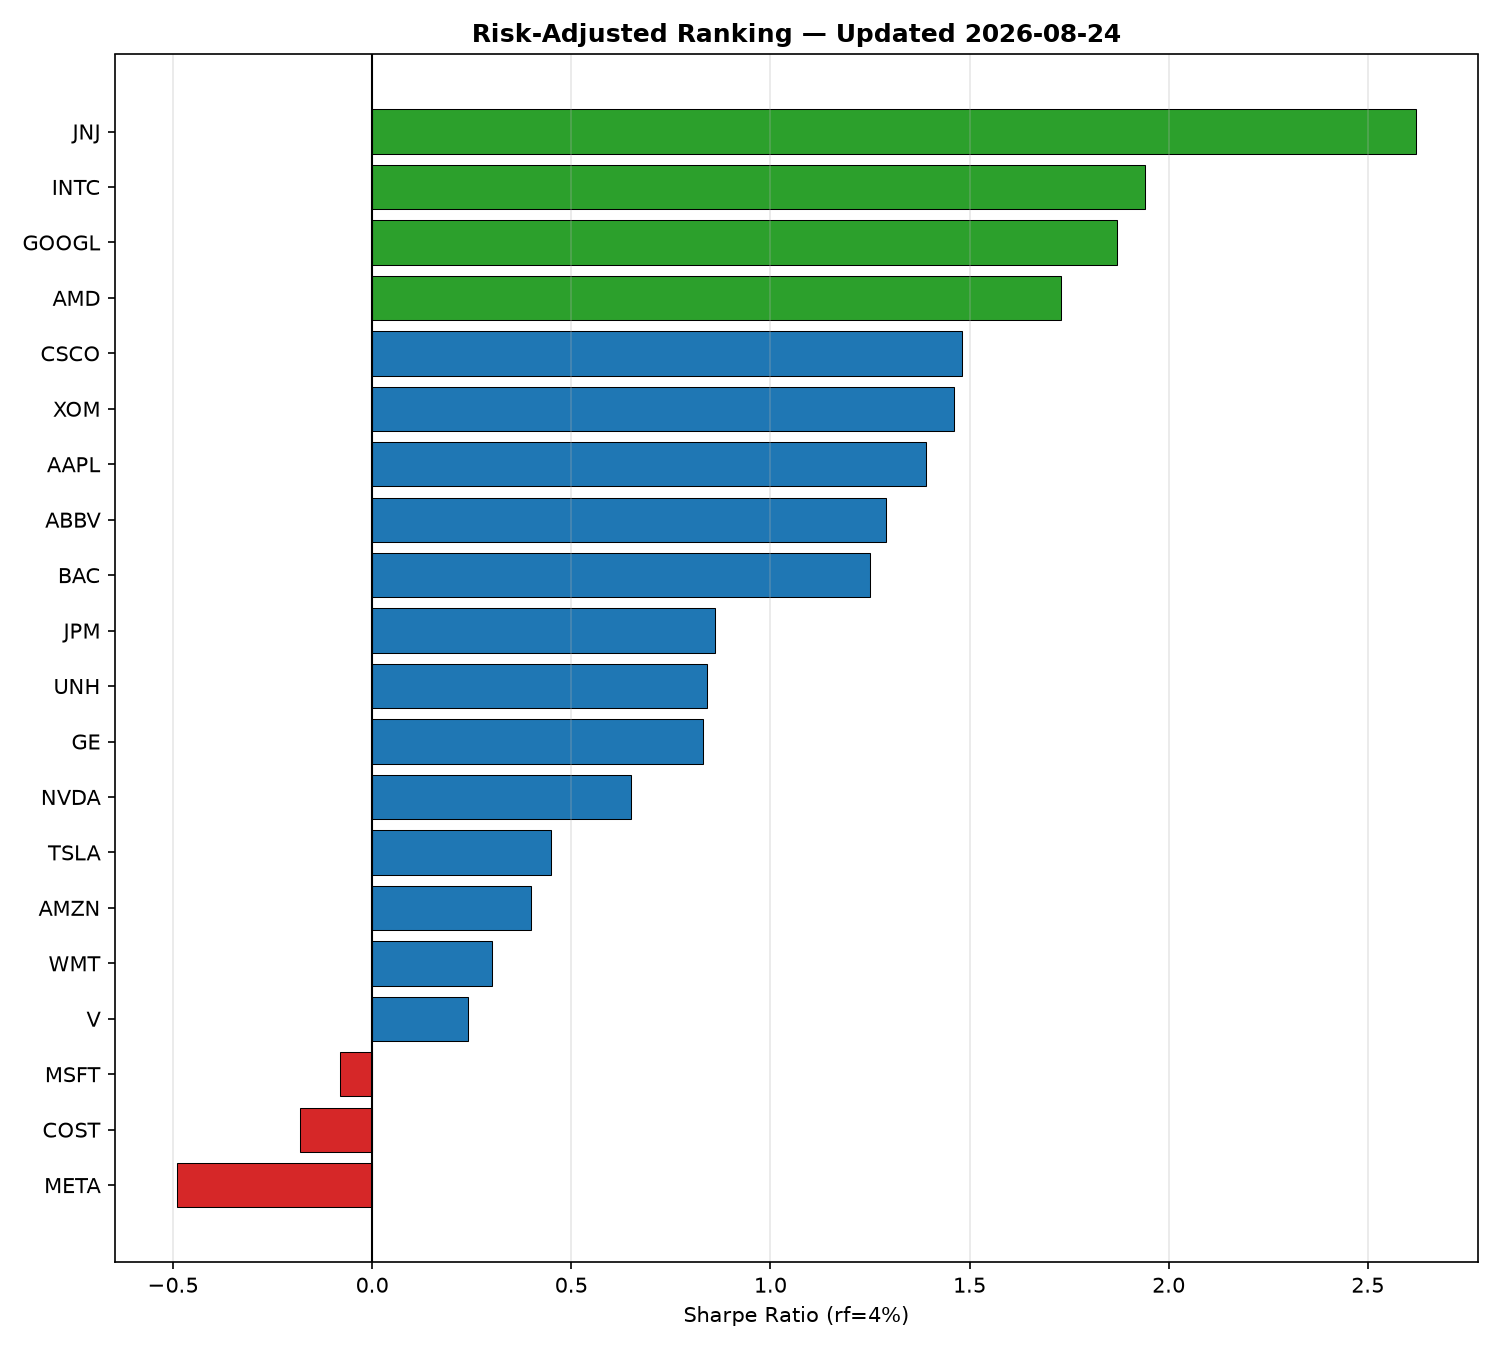
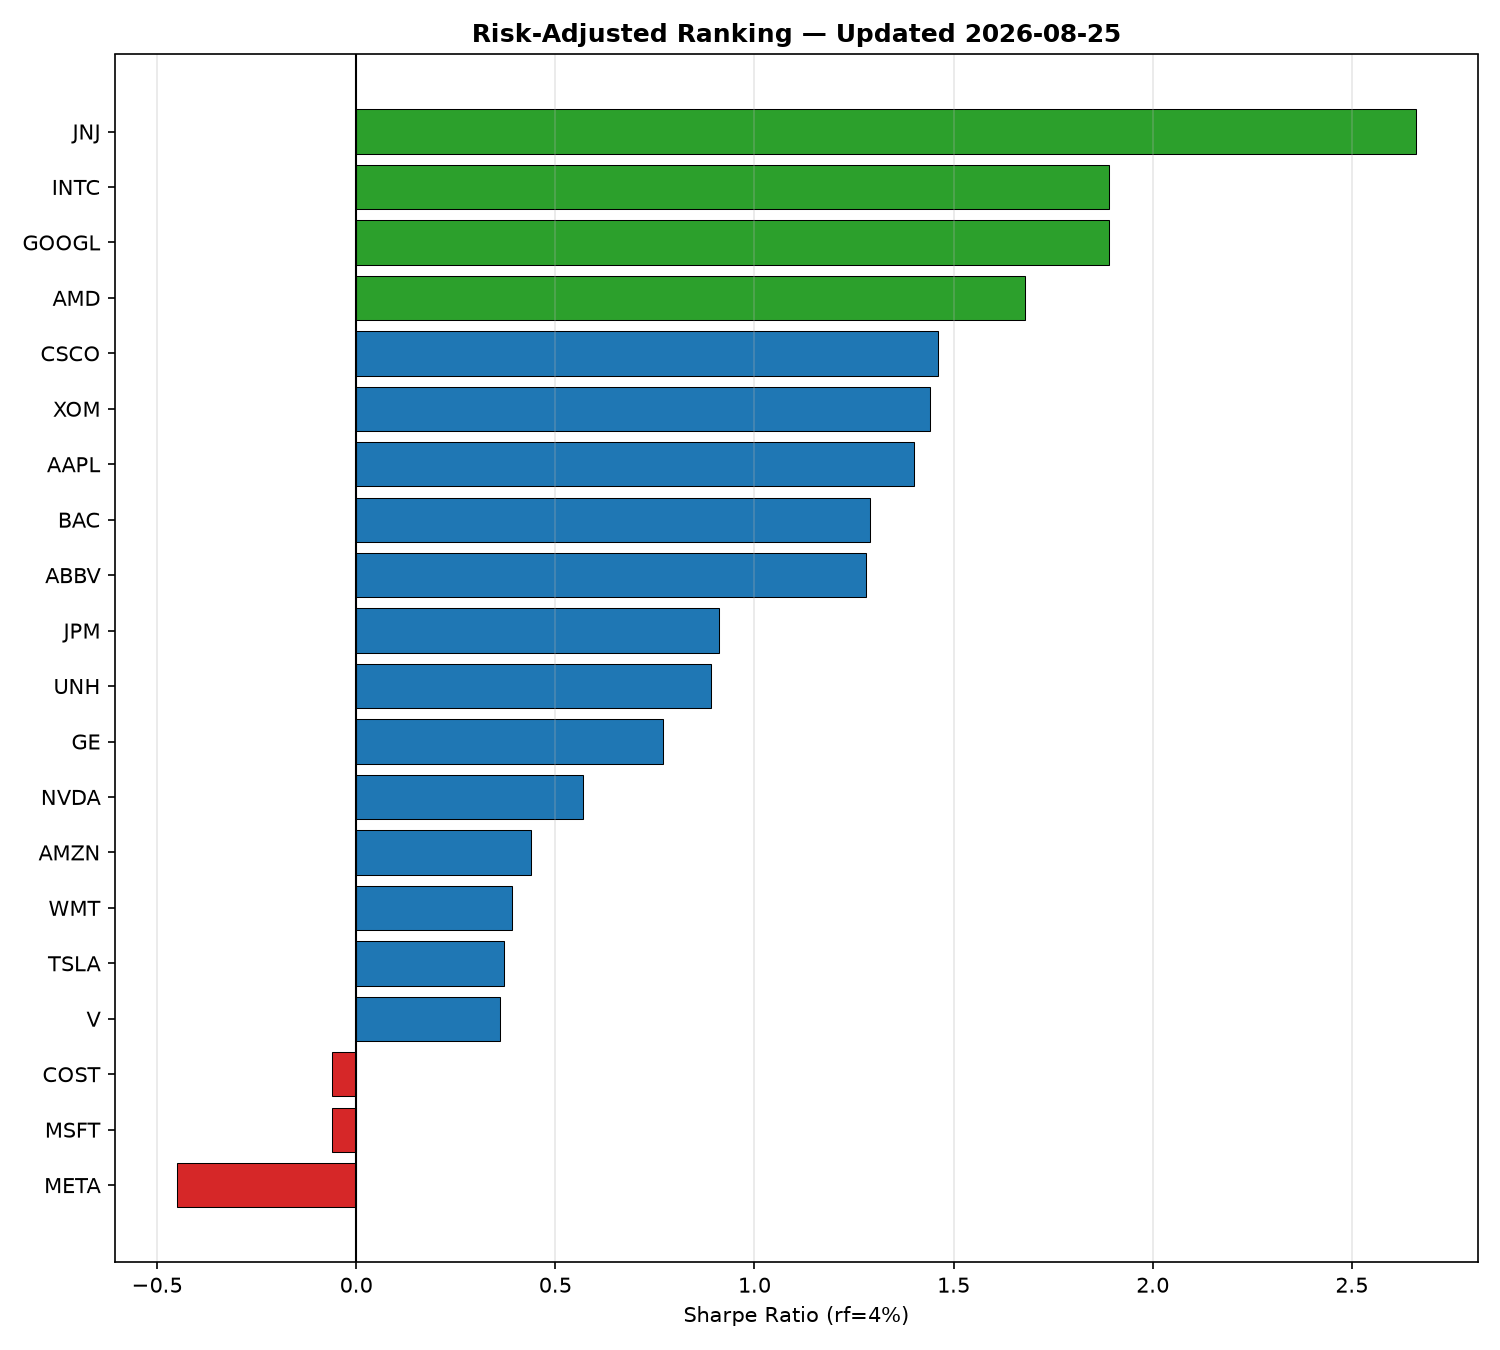
Automated daily update: prices, metrics, and charts

diff --git a/SNAPSHOT.md b/SNAPSHOT.md
@@ -1,9 +1,9 @@
-# Daily Risk Snapshot — 2026-08-21
+# Daily Risk Snapshot — 2026-08-24
 
-**Best mover:** TSLA (+5.14%)
-**Worst mover:** INTC (-2.24%)
-**Top risk-adjusted performer (trailing window):** JNJ (Sharpe 2.62)
+**Best mover:** V (+3.06%)
+**Worst mover:** TSLA (-3.83%)
+**Top risk-adjusted performer (trailing window):** JNJ (Sharpe 2.66)
 
-**No new anomaly flags today.**
+**⚠ Newly anomalous today:** V — return moved more than 2 std. deviations from its own 20-day trailing mean.
 
 _Auto-generated by `scripts/daily_snapshot.py` via GitHub Actions._
